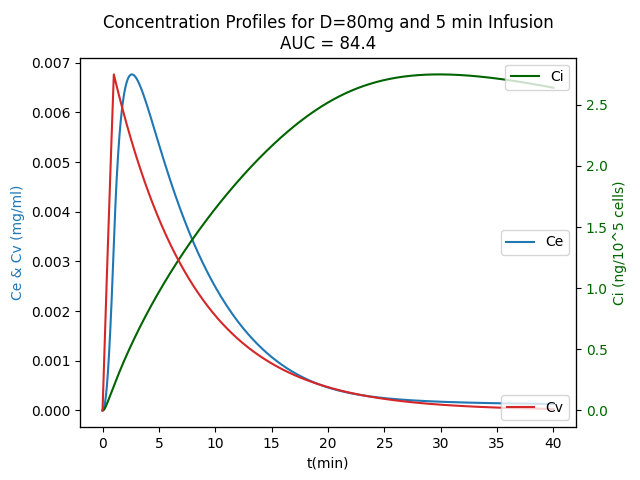
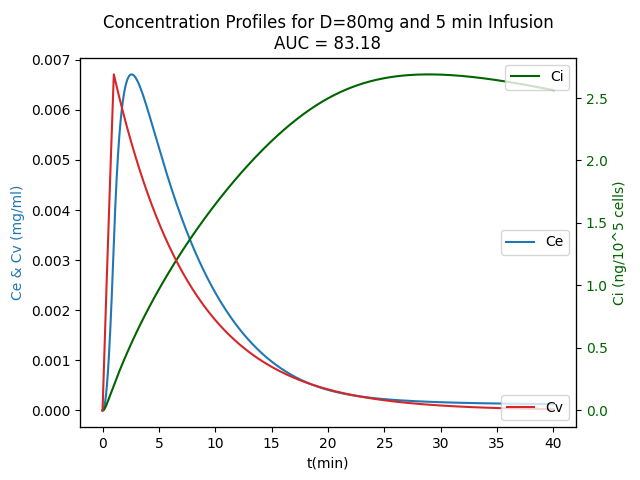
removed some bugs

diff --git a/three_compartment_model.py b/three_compartment_model.py
@@ -7,7 +7,7 @@ P = 60*10**(-4) #cm/min
 dc = 6*10**(-3) #cell density 10^5cells/ml x10^-6 to account for units
 St = 200 # vascular density (cm^-1)
 A = 0.13*10**-3 # ml-1 inverse volume of patient
-t_half = 4.93 #half life of doxorubicin in  blood
+t_half = 4.75 #half life of doxorubicin in  blood #24*60
 alpha = 0.693/t_half # time constant for DR decay in blood 
 phi = 0.4 #volume fraction of extracellular space in tumor 
 # ==============================================================
@@ -103,7 +103,7 @@ def find_peak_intracellular_concentration(Doses, infusion_times, plot=True, titl
         plt.figure()
         for i in infusion_times:
             for Dose in Doses:
-                state_history, _, _ = simulate(i*60, 18*60, Dose=Dose, plot=False)
+                state_history, _, _ = simulate(i*60, 12*60, Dose=Dose, plot=False, Ki=Ki, Ke=Ke, Vmax=Vmax)
                 peak = max(state_history[:,1])
                 print(peak)
                 dictionary[Dose].append(peak)
@@ -112,14 +112,14 @@ def find_peak_intracellular_concentration(Doses, infusion_times, plot=True, titl
             plt.plot(infusion_times, dictionary[Dose], label=f'{Dose}mg')
             optimal_times.append(infusion_times[np.argmax(dictionary[Dose])])
         plt.legend()
-        plt.title("Peak Intracellular Concentration")
+        plt.title(f'Peak Intracellular Concentration  for Ki-{Ki} and Ke-{Ke}')
         plt.xlabel("Infusion Duration")
         plt.ylabel("Peak Concentration(ng/10^5cells)")
         plt.savefig(f'./saved_graphs/Peak Intracellular Concentration for Ki-{Ki} and Ke-{Ke}.png')
         plt.show()
         plt.figure()
         plt.plot(Doses, optimal_times)
-        plt.title("Optimal Infusion Time for Different Doses")
+        plt.title(f'Optimal Infusion Time for Different Doses for Ki-{Ki} and Ke-{Ke}')
         plt.xlabel("Dose (mg)")
         plt.ylabel("Optimal Infusion Time (hrs)")
         plt.savefig(f'./saved_graphs/Optimal Infusion Time for Ki-{Ki} and Ke-{Ke}.png')
@@ -129,9 +129,25 @@ def find_peak_intracellular_concentration(Doses, infusion_times, plot=True, titl
 
 simulate(1, 40, Dose=80, title='Concentration Profiles for D=80mg and 5 min Infusion')
 simulate(8*60, 12*60, Dose=80, title='Concentration Profiles for D=80mg and 8 hours Infusion' )
-simulate(8*60, 12*60, Dose=80, title='Concentration Profiles for D=80mg and 8 hours Infusion Ki=1.37', Ke = 0.219*10**(-3), Ki=1.37, Vmax = 0.28)
-simulate(8*60, 12*60, Dose=80, title='Concentration Profiles for D=80mg and 8 hours Infusion Ki=0.137', Ke = 0.219*10**(-3), Ki=0.1* 1.37, Vmax = 0.28)
+# simulate(8*60, 12*60, Dose=131, title='Concentration Profiles for D=131mg and 8 hours Infusion Ke=x10', Ke = 10*0.219*10**(-3), Ki=1.37, Vmax = 0.28)
+# simulate(8*60, 12*60, Dose=131, title='Concentration Profiles for D=131mg and 8 hours Infusion Ki=1.37', Ke = 0.219*10**(-3), Ki=1.37, Vmax = 0.28)
 
-infusion_times = [0.1, 0.25, 0.5, 1, 1.5, 2, 3, 4, 5, 6, 7, 8, 9, 10, 11, 12] #in hours
-Doses = [50, 150, 250, 350]
-find_peak_intracellular_concentration(Doses, infusion_times,Ke = 0.219*10**(-3), Ki=1.37, Vmax = 0.28 )
+simulate(2*60, 12*60, Dose=200, title='Concentration Profiles for D=200mg and half hour Infusion')
+simulate(2*60, 12*60, Dose=500, title='Concentration Profiles for D=500mg and 2 hours Infusion' )
+
+infusion_times = [0.1, 0.25, 0.5, 1, 1.5, 2, 3, 4, 5] #in hours
+Doses = [50, 200, 500, 1000]
+# find_peak_intracellular_concentration(Doses, infusion_times,Ke = 0.219*10**(-3), Ki=1.37, Vmax = 0.28 )
+# find_peak_intracellular_concentration(Doses, infusion_times,Ke = 0.219*10**(-3), Ki=1.37/5, Vmax = 0.28 )
+
+'''
+Basic Model Sim
+Different Ki's Peak IC 
+Peter's graph for survival
+Revesit Ki slide
+Graphs with recomended treatment params --> square graph (optional figure out exact shape)
+Ultrasound: increase P:
+Liposomes: Increase Half life
+summary for ci vs t graphs at end 
+
+'''
